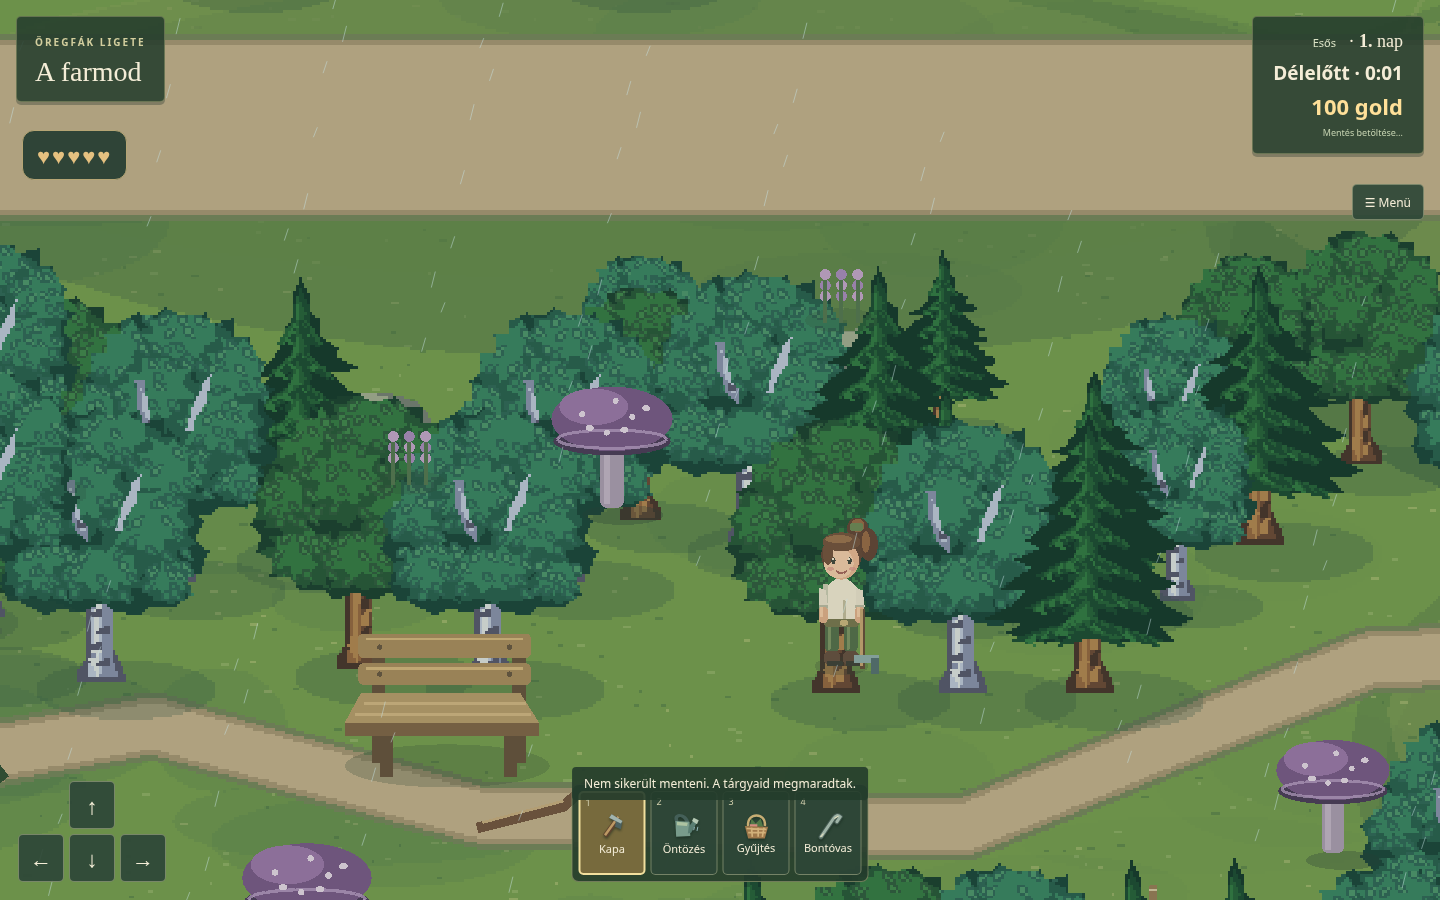
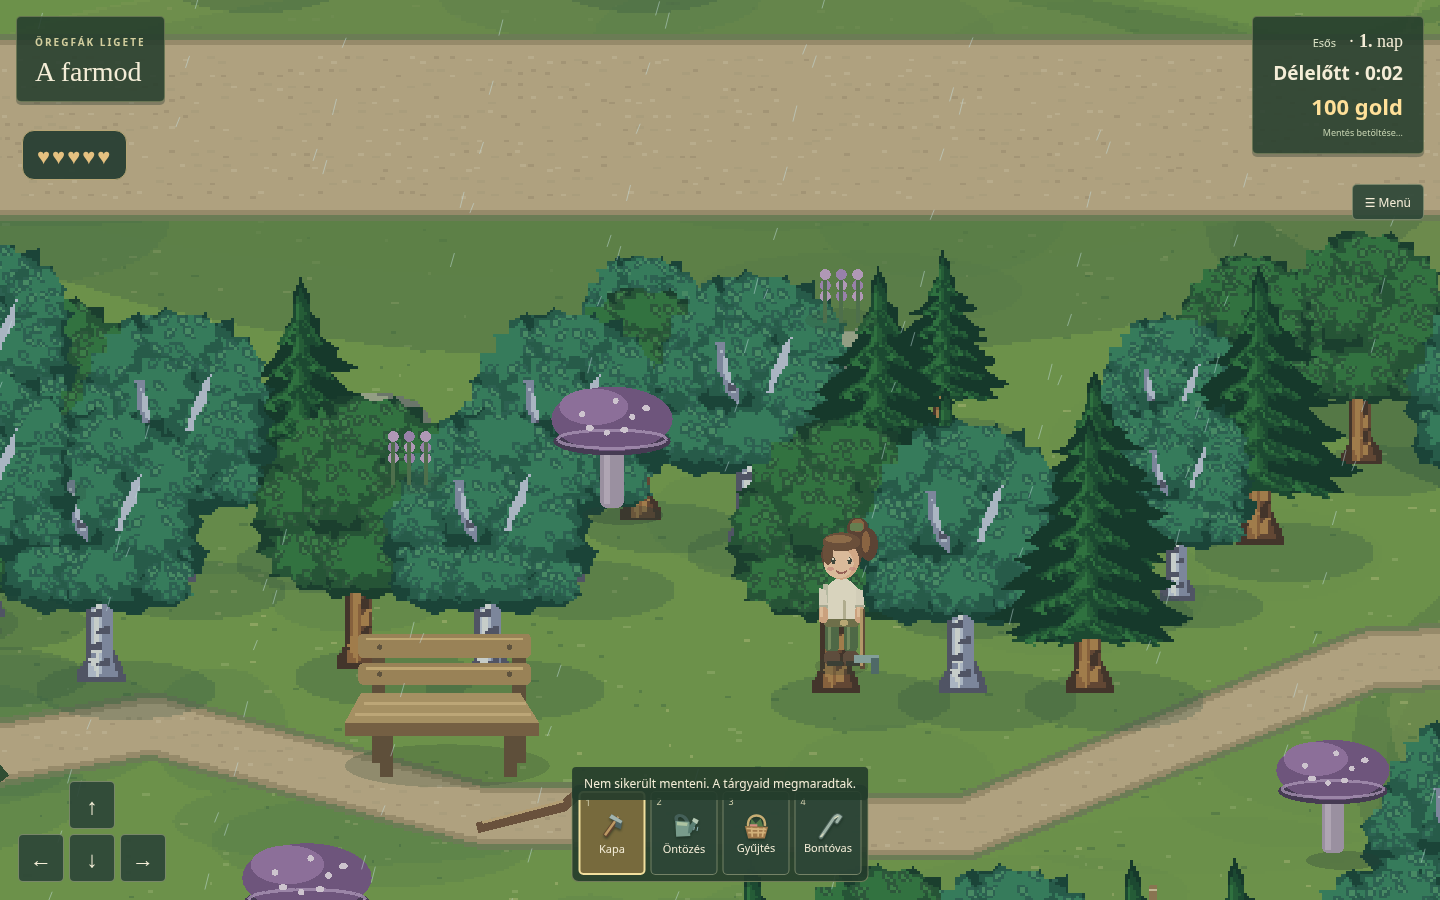
Thin leaves per tree and unify textured paths with clean forest junctions

diff --git a/src/woodland-tree.ts b/src/woodland-tree.ts
@@ -1,3 +1,4 @@
+import {thinTreeLeaves} from './tree-leaf-selection';
 import {leafContour} from './foliage-leaf';
 import {natureTreeClear} from './nature-resources';
 import type Phaser from 'phaser';
@@ -69,10 +70,13 @@ export function drawWoodlandTree(g:Phaser.GameObjects.Graphics,random:()=>number
   }
   // Finish all crown volumes first, then draw fully outlined little leaves on top.
   // Later volume patches must not paint over the outlines of earlier leaves.
-  for(let k=0;k<patches.length;k++){
+  const leaves:{k:number;row:number;col:number;a:number;rank:number}[]=[];
+  for(let k=0;k<patches.length;k++)for(let row=0;row<4;row++)for(let col=0;col<5;col++){
+   const a=hash(k*31+row*5+col,k+7);if(a%3===0||a%13===0)continue;
+   leaves.push({k,row,col,a,rank:hash(k*43+row*11+col,91)});
+  }
+  for(const {k,row,col,a}of thinTreeLeaves(leaves)){
    const [cx,cy,rx,ry]=patches[k];
-   for(let row=0;row<4;row++)for(let col=0;col<5;col++){
-    const a=hash(k*31+row*5+col,k+7);if(a%3===0||a%13===0)continue;
     const xx=Math.round(cx+(col-2)*rx*.34+(row%2?2:0)+(a%3)-1),yy=Math.round(cy+(row-1.5)*ry*.39+(col%2)+((a>>>5)%3)-1);
     const angle=(col<2?-1:1)*(.45+(a%3)*.18),cos=Math.cos(angle),sin=Math.sin(angle);
     const transform=(points:number[])=>points.map((v,i)=>i%2?yy+points[i-1]*sin+v*cos:xx+v*cos-points[i+1]*sin);
@@ -81,7 +85,6 @@ export function drawWoodlandTree(g:Phaser.GameObjects.Graphics,random:()=>number
     shape(leaf(3.8,1.7),birch?0x2c6450:0x2c5936);
     shape(leaf(2.7,.85),row<2?(birch?0x4a9264:0x3d8444):palette[2]);
     if(row<2&&a%3===0)shape(transform([-1,-1,1,-1,0,0,-1,0]),palette[3]);
-   }
   }
 
   if(birch){

diff --git a/src/path-art.ts b/src/path-art.ts
@@ -1,3 +1,4 @@
+import {pathTextureMarks} from './path-texture';
 import type Phaser from 'phaser';
 export type PaintedPath={width:number;capEnd?:boolean;points:readonly (readonly number[])[]};
 // Paint each material across the WHOLE network before moving to the next one.
@@ -5,6 +6,14 @@ export type PaintedPath={width:number;capEnd?:boolean;points:readonly (readonly 
 export function drawPathNetwork(g:Phaser.GameObjects.Graphics,paths:readonly PaintedPath[],mapColor:(color:number)=>number=color=>color){
  for(const [extra,color]of [[5,0x738354],[1,0xa5936c],[-3,0xc1ae85]])for(const [index,path]of paths.entries()){
   const width=path.width+extra;g.lineStyle(width,mapColor(color)).beginPath();path.points.forEach(([x,y],i)=>i?g.lineTo(x,y):g.moveTo(x,y));g.strokePath();
-  for(const [x,y]of path.points.filter((_,i)=>!(index===0&&i===0)&&!(path.capEnd===false&&i===path.points.length-1)))g.fillStyle(mapColor(color)).fillEllipse(x,y,width,width);
+  for(const [x,y]of path.points.filter((p,i)=>{
+   if(index===0&&i===0||path.capEnd===false&&i===path.points.length-1)return false;
+   if(i===0||i===path.points.length-1)return true;
+   const a=path.points[i-1],b=path.points[i+1],ux=p[0]-a[0],uy=p[1]-a[1],vx=b[0]-p[0],vy=b[1]-p[1],d=Math.hypot(ux,uy)*Math.hypot(vx,vy);
+   return !d||(ux*vx+uy*vy)/d<.95;
+  }))g.fillStyle(mapColor(color)).fillEllipse(x,y,width,width);
+ }
+ for(const mark of pathTextureMarks(paths)){
+  g.fillStyle(mapColor([0x9d8b68,0xd8c6a1,0xb3a17c][mark.kind]),mark.kind===1?.5:.42).fillRect(mark.x,mark.y,mark.kind===2?3:2,mark.kind===0?1.2:1);
  }
 }

diff --git a/src/garden-path-art.ts b/src/garden-path-art.ts
@@ -9,8 +9,7 @@ export function paintGardenPaths(g:Phaser.GameObjects.Graphics,pieces:readonly G
  const roads=dirt.flatMap(p=>{const before=byId.get(p.previous??-1),road={width:24,points:before&&before.material==='dirt'?[[before.x,before.y],[p.x,p.y]]:[[p.x,p.y],[p.x,p.y]]};return p.baseJoin?[road,{width:24,points:[[p.baseJoin.x,p.baseJoin.y],[p.x,p.y]]}]:[road];});
 
  if(preview!==undefined){for(const road of roads){g.lineStyle(25,preview,.65).beginPath();road.points.forEach(([x,y],i)=>i?g.lineTo(x,y):g.moveTo(x,y));g.strokePath();for(const [x,y]of road.points)g.fillStyle(preview,.65).fillCircle(x,y,12.5);}}
- else{const base=dirt.some(p=>p.baseJoin)?basePaths:[];drawPathNetwork(g,[...base,...roads]);for(const [index,path]of base.entries())for(let i=1;i<path.points.length;i++){const a=path.points[i-1],b=path.points[i],length=Math.hypot(b[0]-a[0],b[1]-a[1]);for(let d=0;d<length;d+=3){const t=d/length,offset=(noise(index*10000+i*500+d,2)-.5)*(path.width-7);g.fillStyle(d%2?0x9f916e:0xd6c29a,.7).fillRect(Math.round(a[0]+(b[0]-a[0])*t-(b[1]-a[1])/length*offset),Math.round(a[1]+(b[1]-a[1])*t+(b[0]-a[0])/length*offset),2,1);}}
-for(const p of dirt)for(let j=0;j<3;j++)g.fillStyle(j%2?0xd6c29a:0x9f916e,.65).fillRect(p.x+(noise(p.id,j)-.5)*16,p.y+(noise(p.id,j+4)-.5)*16,2,1);}
+ else{const base=dirt.some(p=>p.baseJoin)?basePaths:[];drawPathNetwork(g,[...base,...roads]);}
  for(const p of pieces){if(p.material==='dirt')continue;
   if(p.material==='stone'){
    const vertices=pathFootprint(p);

diff --git a/src/world-art.ts b/src/world-art.ts
@@ -45,8 +45,10 @@ export function drawFarm(scene:Phaser.Scene,clearing:Clearing=createClearing(),g
  for(let i=0;i<12500;i++){const x=left+random()*width,y=top+random()*height;rect(x,y,1+random()*2,1,[0x658b3f,0xb0bf71,0x82a851][i%3],.55);}
  }
  drawPathNetwork(g,layout.paths,study?studyColor:undefined);
- // Texture follows the paths rather than spilling over their edges.
- for(const p of layout.paths)for(let i=1;i<p.points.length;i++){const [ax,ay]=p.points[i-1],[bx,by]=p.points[i],length=Math.hypot(bx-ax,by-ay);for(let j=0;j<length;j+=3){const t=j/length,offset=(random()-.5)*(p.width-7);rect(ax+(bx-ax)*t-(by-ay)/length*offset,ay+(by-ay)*t+(bx-ax)/length*offset,2,1,j%2?0x9f916e:0xd6c29a,.7);}}
+ // Keep the former random stream so the shared texture does not relocate trees.
+ for(const path of layout.paths)for(let i=1;i<path.points.length;i++){
+  const a=path.points[i-1],b=path.points[i],length=Math.hypot(b[0]-a[0],b[1]-a[1]);for(let d=0;d<length;d+=3)random();
+ }
  // Boundary trees leave the usable centre and paths open.
  for(let i=0;i<50;i++){const x=left+random()*width,y=top+random()*height;if(y<top+35||x<left+30||x>right-30)tree(x,y,.8+random()*.35);}
  for(let x=left+20;x<right;x+=48)tree(x,top+10,.85+random()*.2);

diff --git a/src/path-art.test.ts b/src/path-art.test.ts
@@ -2,3 +2,8 @@ import {it,expect} from 'vitest';
 import type Phaser from 'phaser';
 import {drawPathNetwork} from './path-art';
 it('paints all junction borders before any road filling, so no late border can cut across a branch',()=>{const colors:number[]=[];const g=new Proxy({},{get:(_,method:string)=>(...args:unknown[])=>{if(method==='lineStyle')colors.push(args[1] as number);return g;}}) as Phaser.GameObjects.Graphics;drawPathNetwork(g,[{width:32,points:[[170,600],[305,784],[393,909]]},{width:17,points:[[278,760],[150,813]]},{width:20,points:[[107,930],[-120,938]]}]);expect(colors).toEqual([0x738354,0x738354,0x738354,0xa5936c,0xa5936c,0xa5936c,0xc1ae85,0xc1ae85,0xc1ae85]);});
+it('does not add scalloped circular bumps along a gently curving path',()=>{
+ const caps:number[][]=[];const g=new Proxy({},{get:(_,method:string)=>(...args:unknown[])=>{if(method==='fillEllipse')caps.push(args as number[]);return g;}}) as Phaser.GameObjects.Graphics;
+ drawPathNetwork(g,[{width:32,points:[[170,930],[185,933],[200,937],[215,942],[230,948]]}]);
+ expect(caps).toHaveLength(3);expect(caps.every(c=>c[0]===230&&c[1]===948)).toBe(true);
+});

diff --git a/src/path-texture.ts b/src/path-texture.ts
@@ -1,0 +1,18 @@
+import type {PaintedPath} from './path-art';
+export type PathMark={x:number;y:number;kind:number};
+/** World-aligned grit makes joined paths share one texture, regardless of segments. */
+export function pathTextureMarks(paths:readonly PaintedPath[]):PathMark[]{
+ const marks=new Map<string,PathMark>();
+ for(const path of paths)for(let i=1;i<path.points.length;i++){
+  const [ax,ay]=path.points[i-1],[bx,by]=path.points[i],radius=Math.max(0,path.width/2-4),dx=bx-ax,dy=by-ay,length2=dx*dx+dy*dy;
+  for(let x=Math.ceil((Math.min(ax,bx)-radius)/5)*5;x<=Math.max(ax,bx)+radius;x+=5)for(let y=Math.ceil((Math.min(ay,by)-radius)/5)*5;y<=Math.max(ay,by)+radius;y+=5){
+   const t=length2?Math.max(0,Math.min(1,((x-ax)*dx+(y-ay)*dy)/length2)):0;
+   if(Math.hypot(x-ax-t*dx,y-ay-t*dy)>radius)continue;
+   const hash=(Math.imul(x+473,374761393)^Math.imul(y+877,668265263))>>>0;
+   if(hash%10>5)continue;
+   const xx=x+(hash%3)-1,yy=y+((hash>>>8)%3)-1;
+   marks.set(`${x},${y}`,{x:xx,y:yy,kind:(hash>>>16)%3});
+  }
+ }
+ return [...marks.values()].sort((a,b)=>a.y-b.y||a.x-b.x);
+}

diff --git a/src/tree-leaf-selection.test.ts b/src/tree-leaf-selection.test.ts
@@ -1,0 +1,6 @@
+import {it,expect} from 'vitest';
+import {thinTreeLeaves} from './tree-leaf-selection';
+it('reduces every nontrivial tree by its own quota, deterministically and without rearranging leaves',()=>{
+ for(const size of [2,9,83,117]){const leaves=Array.from({length:size},(_,i)=>({rank:(i*37)%131,id:i})),result=thinTreeLeaves(leaves);expect(result).toHaveLength(size-Math.ceil(size*.08));expect(result.map(p=>p.id)).toEqual([...result.map(p=>p.id)].sort((a,b)=>a-b));expect(thinTreeLeaves(leaves)).toEqual(result);expect(leaves).toHaveLength(size);}
+ expect(thinTreeLeaves([])).toEqual([]);expect(thinTreeLeaves([{rank:1}])).toEqual([{rank:1}]);
+});

diff --git a/src/path-texture.test.ts b/src/path-texture.test.ts
@@ -1,0 +1,8 @@
+import {it,expect} from 'vitest';
+import {pathTextureMarks} from './path-texture';
+it('keeps grit inside the path and uses the same marks across joined segments',()=>{
+ const whole=[{width:24,points:[[0,0],[200,0]]}],split=[{width:24,points:[[0,0],[100,0]]},{width:24,points:[[100,0],[200,0]]}];
+ const marks=pathTextureMarks(whole);expect(marks.length).toBeGreaterThan(20);expect(pathTextureMarks(split)).toEqual(marks);expect(new Set(marks.map(p=>p.kind)).size).toBe(3);
+ for(const m of marks)expect(Math.abs(m.y)).toBeLessThanOrEqual(9);
+ expect(pathTextureMarks([{width:24,points:[[20,20],[20,20]]}]).length).toBeGreaterThan(0);
+});

diff --git a/src/tree-leaf-selection.ts b/src/tree-leaf-selection.ts
@@ -1,0 +1,7 @@
+/** Remove a small, guaranteed quota from every tree, retaining spatial order. */
+export function thinTreeLeaves<T extends {rank:number}>(leaves:readonly T[],fraction=.08):T[]{
+ if(leaves.length<2)return [...leaves];
+ const count=Math.min(leaves.length-1,Math.max(1,Math.ceil(leaves.length*fraction)));
+ const removed=new Set(leaves.map((leaf,index)=>({leaf,index})).sort((a,b)=>a.leaf.rank-b.leaf.rank||a.index-b.index).slice(0,count).map(p=>p.index));
+ return leaves.filter((_,index)=>!removed.has(index));
+}

diff --git a/src/village-layout.ts b/src/village-layout.ts
@@ -27,7 +27,7 @@ export const nurseryDisplayBounds=(d:typeof nurseryDisplays[number])=>({left:d.l
 // Drawing and canopy clearance use the same full routes.
 export const villagePaths=[
  {width:32,points:[farmLayout.paths[0].points[0],[170,740]]},
- {width:17,points:[[170,930],[107,930]]},
+ {width:20,points:[[170,930],[107,930]]},
  {width:28,points:[[474,1016],[586,978],[591,940]]},
  {width:25,points:[[606,1097],[660,1100],[708,1100]]},
  {width:23,points:[[493,1320],[493,1364],[660,1364],[660,1341]]},

diff --git a/docs/qa/0.3.0-path-grit-and-tree-quota.md b/docs/qa/0.3.0-path-grit-and-tree-quota.md
@@ -1,0 +1,14 @@
+# Fánkénti levélkvóta és az ösvények felülete
+
+A `thinTreeLeaves()` minden legalább két levélhelyes fán a saját mennyiség további 8%-át eltávolítja, felfelé kerekítve. Stabil rangsorolást használ, nem rendezi át a megmaradó leveleket és nem fogyaszt új megosztott véletlenszámot. A gyümölcsfák és a farm korábbi külön rajzolójú határfái nem használják ezt a közös erdei levélrajzolót; a jelenlegi három erdei fajta lombos tagjait érinti. Bokrok változatlanok.
+
+A `path-texture.ts` világkoordinátához igazított, finom szemcséket rajzol minden közös alapösvényre. Egy út feldarabolása vagy összekötése nem változtatja meg a szemcsék helyét. A farm és a játékos-földutak korábbi külön mintázása megszűnt; a farm régi véletlenszám-léptetését megtartjuk, hogy a környező fák ne mozduljanak el. Nem nőtt a teljes világ rendertextúrája.
+
+Az erdei tábla feletti összekötő 17 egység széles volt, a folytatása 20; a szélességváltás a szegélyben lépcsőt okozott. Az összekötő is 20 egység. A finoman kanyarodó pontokon a közös útvonalrajzoló nem tesz minden mintapontra új kerek korongot. Az éles sarkok és a végpontok kerekítése megmarad. A térkép ugyanazt a `villagePaths` szélességet és nyomvonalat használja.
+
+Ellenőrzés:
+
+- 514 teszt / 76 fájl sikeres; TypeScript/Vite build sikeres.
+- Új regresszió: fánkénti kvóta és stabil sorrend; szakaszhatáron azonos mintázat és az úton belüli szemcsék; finom kanyarban fölösleges körillesztések nélkül, a közös szegélyrajzolási sorrend megőrzésével.
+- Elkülönített Chromium/CDP, normál játék: farmkapu két oldala, erdei tábla feletti csatlakozás és a falusi Műhelybolt előtti út. Böngészős kivétel nincs.
+- Képek: `production-path-texture-gate.png`, `production-path-texture-forest-junction.png`, `production-path-texture-village.png`; friss erdei és háromfás kép is készült.

diff --git a/docs/jatekterv.md b/docs/jatekterv.md
@@ -1591,3 +1591,9 @@ A felhasználó az elkülönülő, sötét szélű levelek irányát elfogadta. 
 A következő finomításnál a levelek hegyesebbek, a fák lombján ritkábbak. Az áfonyabokrok szabályos levélsorai helyett néhány rövid hajtáshoz kapcsolódó, lazább levélcsoport készül. Mara bokrain a felhasználó által kedvelt kiálló levelek és azok metszés alatti visszahúzódása megmarad.
 
 A felhasználó további enyhe levélritkítást kért a fákon; az áfonyabokrok legutóbbi megjelenését egyelőre változatlanul kell hagyni. A kis dekorációs fűcsomók nem tetszenek neki, ezért a farmról és az erdei/falusi elágazás mellől eltűnnek. A finom talajtextúra, a szedhető gyógynövények és az eltávolítható gaz megmarad. A fa fölé rajzolódó dekorációs fűcsomók hibáját az érintett fűcsomók eltávolítása oldja meg; az utólagos díszítő réteg nem takarhatja át a fák lombját.
+
+### Fánkénti levélkvóta és egységes ösvényfelület
+
+A lombos erdei fák levélhelyeiből minden fa a saját darabszámának további 8%-át veszíti el (felfelé kerekítve, legalább egy levél). Ez meghatározott fánkénti kvóta, nem újabb, esetenként alig ható kihagyási feltétel. A sorrend és a megosztott véletlenszám-fogyasztás megmarad. A bokrok nem változnak.
+
+A farm, az erdei és falusi alapösvények, az autóút és a hozzájuk csatlakozó játékos-földutak közös, finom földes-kavicsos mintázatot használnak. Világkoordinátához rögzül, így a telekhatáron és a csatlakozásokban sem vált más mintára. A földút színe megmarad. Az Erdei ösvény tábla fölötti rövid összekötő szakasz szélessége a folytatásával egyezik; a sűrűn mintázott enyhe kanyarokban nincs minden ponton újabb kerek illesztés, így nem keletkezik gyöngyöző szegély. A teljes hálózat külső szegélyei továbbra is a belső rétegek előtt készülnek. A térkép a közös útadatokat használja.
